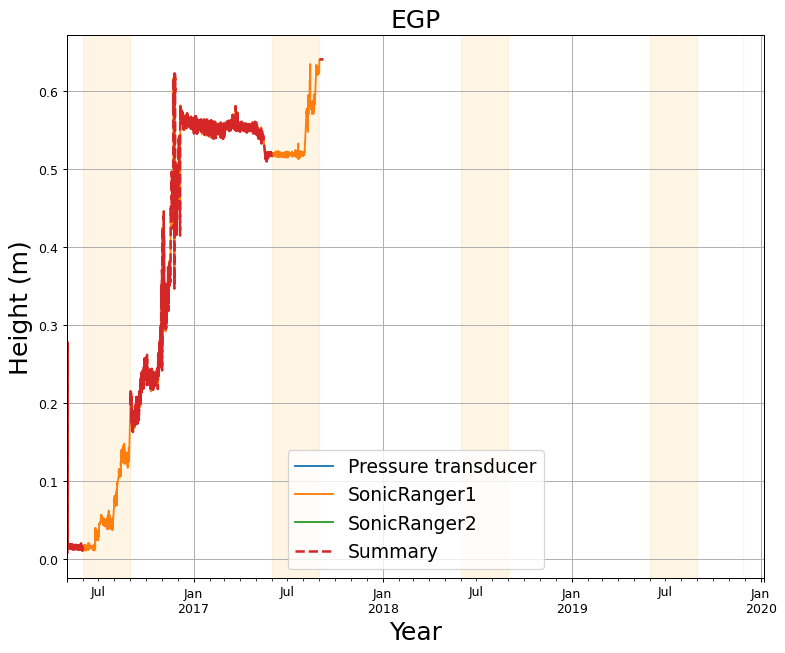
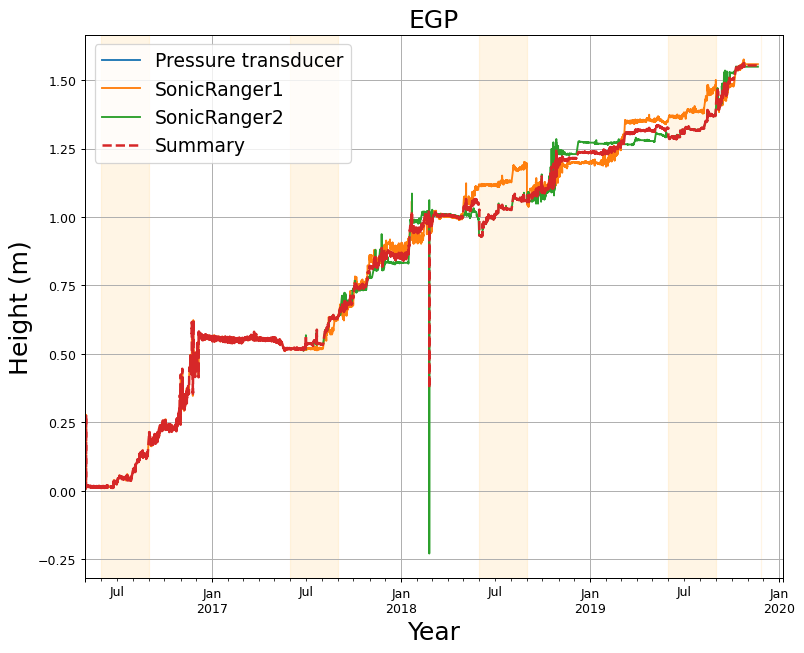
update KAN_U EGP

diff --git a/PROMICE_lib.py b/PROMICE_lib.py
@@ -328,7 +328,7 @@ def combine_hs_dpt(df, site):
             # then find begining and end
             ind_start[i] = np.argwhere(ind_abl_yr)[0][0]
             ind_end[i] = np.argwhere(ind_abl_yr)[-1]
-            hs1.iloc[ind_start[i]:ind_end[i]] = np.nan
+            # hs1.iloc[ind_start[i]:ind_end[i]] = np.nan
            # during the ablation we can delete the data from SR1 unless there is no other sensor
         elif np.any(np.isin(df.index[ind_yr].month.values, [6, 7, 8])):
             # if there is any data from june-august that year
@@ -363,7 +363,7 @@ def combine_hs_dpt(df, site):
     #     plt.axvspan(df.index[ind_start[i]],df.index[ind_end[i]], color='orange', alpha=0.1)
 
         # if np.any(~np.isnan(hs1.iloc[ind_start[i]:ind_end[i]])) or np.any(~np.isnan(z.iloc[ind_start[i]:ind_end[i]])):
-        #     hs1.iloc[ind_start[i]:ind_end[i]] = np.nan
+            #  hs1.iloc[ind_start[i]:ind_end[i]] = np.nan
     hs2 = hs2 - firstNonNan(hs2.values)
     
     plt.figure()
@@ -399,8 +399,12 @@ def combine_hs_dpt(df, site):
             if i > 0 and flag == 0:
                 # then we adjust the pressur SR2 to transducer
                 ind_first_nonan = hs2.index.get_loc(hs2.iloc[ind_start[i]:].first_valid_index())
-                hs2 = hs2 - np.nanmean(hs2.iloc[ind_first_nonan:(ind_first_nonan+24*7)])  + \
-                    np.nanmean(z.iloc[ind_first_nonan:(ind_first_nonan+24*7)])
+                if np.any(~np.isnan(z.iloc[ind_first_nonan:(ind_first_nonan+24*7)])):
+                    hs2 = hs2 - np.nanmean(hs2.iloc[ind_first_nonan:(ind_first_nonan+24*7)])  + \
+                        np.nanmean(z.iloc[ind_first_nonan:(ind_first_nonan+24*7)])
+                else:
+                    hs2 = hs2 - np.nanmean(hs2.iloc[ind_first_nonan:(ind_first_nonan+24*7)])  + \
+                        np.nanmean(hs1.iloc[ind_first_nonan:(ind_first_nonan+24*7)])                    
                 flag = 1
             if i == 0:
                 flag = 1
@@ -425,13 +429,18 @@ def combine_hs_dpt(df, site):
     df["SurfaceHeight_summary(m)"] = np.nan
    
     # in winter, both SR1 and SR2 are used
-    df.loc[ind_accumulation, "SurfaceHeight_summary(m)"] = np.nanmean( df.loc[ind_accumulation,["SurfaceHeight1_adj(m)","SurfaceHeight2_adj(m)"]].values, axis = 1)
+    df["SurfaceHeight_summary(m)"] = np.nanmean( df[["SurfaceHeight1_adj(m)","SurfaceHeight2_adj(m)"]].values, 
+                                                axis = 1)
     
     # in ablation season we use SR2 instead of the SR1&2 average
-    df.loc[ind_ablation, "SurfaceHeight_summary(m)"] = df.loc[ind_ablation,"SurfaceHeight2_adj(m)"].interpolate(limit=72).values  
+    data_update = df["SurfaceHeight2_adj(m)"].interpolate(limit=72).values 
+    ind_update = np.logical_and(ind_ablation,  ~np.isnan(data_update))
+    df.loc[ind_update,"SurfaceHeight_summary(m)"] = data_update[ind_update]  
 
     # in ablation season we use pressure transducer over all other options
-    df.loc[ind_ablation, "SurfaceHeight_summary(m)"] = df.loc[ind_ablation,"DepthPressureTransducer_Cor_adj(m)"].interpolate(limit=72).values  
+    data_update = df[ "DepthPressureTransducer_Cor_adj(m)"].interpolate(limit=72).values 
+    ind_update = np.logical_and(ind_ablation, ~np.isnan(data_update))
+    df.loc[ind_update,"SurfaceHeight_summary(m)"] = data_update[ind_update] 
     
     # plotting result
     f1 = plt.figure(figsize=(10, 8))    

diff --git a/main.py b/main.py
@@ -22,27 +22,27 @@ path_to_PROMICE = 'C:/Users/bav/OneDrive - Geological survey of Denmark and Gree
 
 #load PROMICE dataset for a given station, all available years
 PROMICE_stations = [('EGP',(75.6247,-35.9748), 2660),  #OK
-                    ('KAN_B',(67.1252,-50.1832), 350), 
-                    ('KAN_L',(67.0955,-35.9748), 670), #Height sensor boom unusable, Height stake do not capture winter accumulation
-                    ('KAN_M',(67.0670,-48.8355), 1270), # minor adjustment left
+                    # ('KAN_B',(67.1252,-50.1832), 350), 
+                    # ('KAN_L',(67.0955,-35.9748), 670), #Height sensor boom unusable, Height stake do not capture winter accumulation
+                    # ('KAN_M',(67.0670,-48.8355), 1270), # minor adjustment left
                     ('KAN_U',(67.0003,-47.0253), 1840), # OK
-                    ('KPC_L',(79.9108,-24.0828), 370),
-                    ('KPC_U',(79.8347,-25.1662), 870), # pressure transducer not working
-                    ('MIT',(65.6922,-37.8280), 440), # ok minor adjustment left
-                    ('NUK_K',(64.1623,-51.3587), 710), 
-                    ('NUK_L',(64.4822,-49.5358), 530),
-                    ('NUK_U',(64.5108,-49.2692), 1120),
-                    ('QAS_L',(61.0308,-46.8493), 280),
-                    ('QAS_M',(61.0998,-46.8330), 630), 
-                    ('QAS_U',(61.1753,-46.8195), 900), 
-                    ('SCO_L',(72.2230,-26.8182), 460),
-                    ('SCO_U',(72.3933,-27.2333), 970),
-                    ('TAS_A',(65.7790,-38.8995), 890),
-                    ('TAS_L',(65.6402,-38.8987), 250),
-                    ('THU_L',(76.3998,-68.2665), 570),
-                    ('THU_U',(76.4197,-68.1463), 760),
-                    ('UPE_L',(72.8932,-54.2955), 220), 
-                    ('UPE_U',(72.8878,-53.5783), 940)
+                    # ('KPC_L',(79.9108,-24.0828), 370),
+                    # ('KPC_U',(79.8347,-25.1662), 870), # pressure transducer not working
+                    # ('MIT',(65.6922,-37.8280), 440), # ok minor adjustment left
+                    # ('NUK_K',(64.1623,-51.3587), 710), 
+                    # ('NUK_L',(64.4822,-49.5358), 530),
+                    # ('NUK_U',(64.5108,-49.2692), 1120),
+                    # ('QAS_L',(61.0308,-46.8493), 280),
+                    # ('QAS_M',(61.0998,-46.8330), 630), 
+                    # ('QAS_U',(61.1753,-46.8195), 900), 
+                    # ('SCO_L',(72.2230,-26.8182), 460),
+                    # ('SCO_U',(72.3933,-27.2333), 970),
+                    # ('TAS_A',(65.7790,-38.8995), 890),
+                    # ('TAS_L',(65.6402,-38.8987), 250),
+                    # ('THU_L',(76.3998,-68.2665), 570),
+                    # ('THU_U',(76.4197,-68.1463), 760),
+                    # ('UPE_L',(72.8932,-54.2955), 220), 
+                    # ('UPE_U',(72.8878,-53.5783), 940)
                    ]
 
 for ws in PROMICE_stations:
